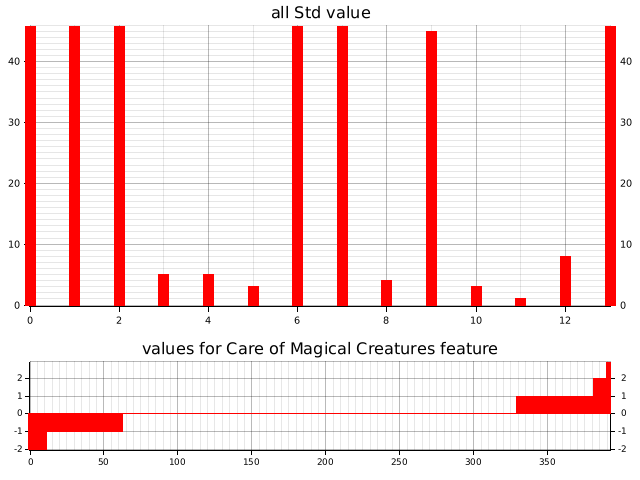
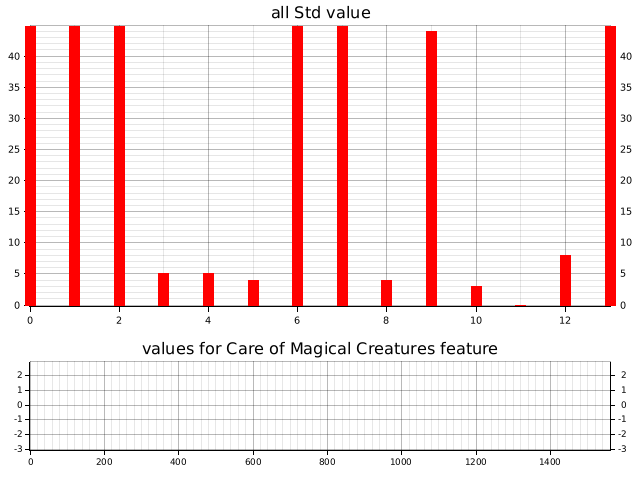
my pair_plot works a bit

diff --git a/src/feature.rs b/src/feature.rs
@@ -59,6 +59,7 @@ impl Feature {
                 });
             });
         let mut i = 0;
+        let mut void_nb = vec![0; ret.len()];
         let nb_lines = lines.clone().count();
         if nb_lines < 1 {
             return Err("no line in dataset".to_string())
@@ -68,11 +69,12 @@ impl Feature {
                 Some(line) => {
                     for (j, r) in ret.iter_mut().enumerate() {
                         let value_to_push: Vec<&str> = line.split(',').collect();
-                        if value_to_push[j].len() > 0 {
-                            r.values.push(value_to_push[j].to_string());
+                        if value_to_push[j].len() == 0 {
+                            void_nb[j] += 1;
                         }
+                        r.values.push(value_to_push[j].to_string());
                         if i == nb_lines - 2 {
-                            r.count = r.values.len();
+                            r.count = r.values.len() - void_nb[j];
                         }
                     }
                 },
@@ -96,121 +98,110 @@ impl Feature {
 
     // all calculate function
     fn calc_mean(&self) -> Option<f32> {
-        let new_values: Result<Vec<f32>, _> = self.values.iter().map(|x| x.parse()).collect();
-        match new_values {
-            Ok(all_values) => {
-                let len = all_values.len();
-                if len == 0 {
-                    return None
-                }
-                let sum: f32 = all_values.iter().sum();
-                Some(sum / (len as f32))
-            },
-            Err(_) => None
+        let new_values: Vec<f32> = self.get_values().iter().flat_map(|x| x.parse()).collect();
+        let len = new_values.len();
+        let sum: f32 = new_values.iter().sum();
+        if sum.is_nan() == true || len == 0 {
+            return None
         }
+        Some(sum / (len as f32))
     }
 
     fn calc_std(&self) -> Option<f32> {
-        let new_values: Result<Vec<f32>, _> = self.values.iter().map(|x| x.parse()).collect();
-        match new_values {
-            Ok(all_values) => {
-                let len = all_values.len();
-                if len == 0 {
-                    return None
-                }
-                let all_gap_pow_add: f32 = all_values.iter().map(|x| {
-                    let gap = match self.get_mean() {
-                        Some(mean) => x - mean,
-                        _ => unreachable!(),
-                    };
-                    gap.powf(2.0)
-                }).sum();
-                Some((all_gap_pow_add / (len as f32)).sqrt())
-            }
-            Err(_) => None
+        let new_values: Vec<f32> = self.get_values().iter().flat_map(|x| x.parse()).collect();
+        let len = new_values.len();
+        if self.get_mean() == None || len == 0 {
+            return None
         }
+        let all_gap_pow_add: f32 = new_values.iter().map(|x| {
+            let gap = match self.get_mean() {
+                Some(mean) => x - mean,
+                _ => unreachable!(),
+            };
+            gap.powf(2.0)
+        }).sum();
+        if all_gap_pow_add.is_nan() == true {
+            return None 
+        }
+        Some((all_gap_pow_add / (len as f32)).sqrt())
     }
 
     fn calc_min(&self) -> Option<f32> {
-        let new_values: Result<Vec<f32>, _> = self.values.iter().map(|x| x.parse()).collect();
-        match new_values {
-            Ok(all_values) => {
-                let mut ret = match all_values.get(0) {
-                    Some(value) => value,
-                    _ => return None
-                };
-                all_values.iter().for_each(|x| {
-                    if x < ret {
-                        ret = x;
-                    }
-                });
-                Some(*ret)
-            },
-            Err(_) => None,
+        let new_values: Vec<f32> = self.get_values().iter().flat_map(|x| x.parse()).collect();
+        let mut ret = match new_values.get(0) {
+            Some(value) => value,
+            _ => return None
+        };
+        new_values.iter().for_each(|x| {
+            if x < ret {
+                ret = x;
+            }
+        });
+        if ret.is_nan() == true {
+            return None
         }
+        Some(*ret)
     }
 
     fn calc_max(&self) -> Option<f32> {
-        let new_values: Result<Vec<f32>, _> = self.values.iter().map(|x| x.parse()).collect();
-        match new_values {
-            Ok(all_values) => {
-                let mut ret = match all_values.get(0) {
-                    Some(value) => value,
-                    _ => return None
-                };
-                all_values.iter().for_each(|x| {
-                    if x > ret {
-                        ret = x;
-                    }
-                });
-                Some(*ret)
-            },
-            Err(_) => None,
+        let new_values: Vec<f32> = self.get_values().iter().flat_map(|x| x.parse()).collect();
+        let mut ret = match new_values.get(0) {
+            Some(value) => value,
+            _ => return None
+        };
+        new_values.iter().for_each(|x| {
+            if x > ret {
+                ret = x;
+            }
+        });
+        if ret.is_nan() == true {
+            return None
         }
+        Some(*ret)
     }
 
     fn calc_percentile(&self, percentile: f32) -> Option<f32> {
-        let new_values: Result<Vec<f32>, _> = self.values.iter().map(|x| x.parse()).collect();
-        match new_values {
-            Ok(mut all_values) => {
-                all_values.sort_by(|a, b| {
-                    match a.partial_cmp(b) {
-                        Some(ord) => ord,
-                        _ => {
-                            println!("unexpected error when sort values");
-                            unreachable!();
-                        }
-                    }
-                });
-                let pos: f32 = percentile / 100.0 * (all_values.len() as f32 + 1.0);
-                match pos.fract() {
-                    x if x == 0.0 => {
-                        match all_values.get(pos as usize - 1) {
-                            Some(value) => Some(*value),
-                            _ => None
-                        }
-                    }
-                    _ => {
-                        if all_values.len() < 1 {
+        let mut new_values: Vec<f32> = self.get_values().iter().flat_map(|x| x.parse()).collect();
+        new_values.sort_by(|a, b| {
+            match a.partial_cmp(b) {
+                Some(ord) => ord,
+                _ => {
+                    println!("unexpected error when sort values");
+                    unreachable!();
+                }
+            }
+        });
+        let pos: f32 = percentile / 100.0 * (new_values.len() as f32 + 1.0);
+        match pos.fract() {
+            x if x == 0.0 => {
+                match new_values.get(pos as usize - 1) {
+                    Some(value) => {
+                        if value.is_nan() == true {
                             return None
                         }
-                        let n1 = all_values.get(pos.trunc() as usize - 1);
-                        let n2 = all_values.get(pos.trunc() as usize);
-                        match n1 {
-                            Some(nb1) => {
-                                match n2 {
-                                    Some(nb2) => {
-                                        Some((*nb1 + *nb2) / 2.0)
-                                    },
-                                    _ => None
-                                }
+                        Some(*value)
+                    },
+                    _ => None
+                }
+            }
+            _ => {
+                if new_values.len() < 1 || pos.trunc() < 1.0 {
+                    return None
+                }
+                let n1 = new_values.get(pos.trunc() as usize - 1);
+                let n2 = new_values.get(pos.trunc() as usize);
+                match n1 {
+                    Some(nb1) => {
+                        match n2 {
+                            Some(nb2) => {
+                                Some((*nb1 + *nb2) / 2.0)
                             },
                             _ => None
                         }
-                    }
+                    },
+                    _ => None
                 }
-            },
-            Err(_) => None,
+            }
         }
     }
 

diff --git a/src/pair_plot.rs b/src/pair_plot.rs
@@ -4,104 +4,63 @@ use plotters::prelude::*;
 pub fn pair_plot(features: Vec<Feature>, houses: Vec<&str>) {
     let root = BitMapBackend::new("graphics/pair_plot.png", (1366, 768)).into_drawing_area();
 
-    let nb_feature = features.len() / 2;
+    let nb_feature = features.len();
     let areas = root.split_evenly((nb_feature, nb_feature));
 
     for (id, area) in areas.into_iter().enumerate() {
         let feature_x = id % nb_feature;
         let feature_y = id / nb_feature;
         area.fill(&WHITE).unwrap();
-        let mut ctx = ChartBuilder::on(&area)
-        .set_label_area_size(LabelAreaPosition::Left, 10.0)
-        .set_label_area_size(LabelAreaPosition::Bottom, 10.0)
-        .build_cartesian_2d((features[feature_x].get_min().unwrap() as f32)..(features[feature_x].get_max().unwrap() as f32), (features[feature_y].get_min().unwrap() as f32)..(features[feature_y].get_max().unwrap() as f32))
-        .unwrap();
-        ctx.configure_mesh().draw().unwrap();
 
-        if feature_y == 0 {
-            let title = features[feature_x].get_name();
+        if feature_x != feature_y {
             let mut ctx = ChartBuilder::on(&area)
-            .set_label_area_size(LabelAreaPosition::Left, 0)
-            .set_label_area_size(LabelAreaPosition::Bottom, 0)
-            .caption(title, ("sans-serif", 10))
             .build_cartesian_2d((features[feature_x].get_min().unwrap() as f32)..(features[feature_x].get_max().unwrap() as f32), (features[feature_y].get_min().unwrap() as f32)..(features[feature_y].get_max().unwrap() as f32))
             .unwrap();
             ctx.configure_mesh().draw().unwrap();
-        } else if feature_x == 0 {
-            let title = features[feature_y].get_name();
-            let mut ctx = ChartBuilder::on(&area)
-            .set_label_area_size(LabelAreaPosition::Left, 0)
-            .set_label_area_size(LabelAreaPosition::Bottom, 0)
-            .caption(title, ("sans-serif", 10))
-            .build_cartesian_2d((features[feature_x].get_min().unwrap() as f32)..(features[feature_x].get_max().unwrap() as f32), (features[feature_y].get_min().unwrap() as f32)..(features[feature_y].get_max().unwrap() as f32))
-            .unwrap();
-            ctx.configure_mesh().draw().unwrap();
-        }
-        else if feature_x != feature_y {
-            let data1: Result<Vec<f32>, _> = features[feature_x].get_values().iter().map(|x| x.parse()).collect();
-            let data2: Result<Vec<f32>, _> = features[feature_y].get_values().iter().map(|x| x.parse()).collect();
-            match data1 {
-                Ok(data1_val) => {
-                    match data2 {
-                        Ok(data2_val) => {
-                            let mut true_data = Vec::new();
-                            let mut i = 0;
-                            while data1_val.get(i) != None {
-                                match data1_val.get(i) {
-                                    Some(x) => {
-                                        match data2_val.get(i) {
-                                            Some(y) => {
-                                                if i < houses.len() {
-                                                    match houses[i] {
-                                                       "Gryffindor" => true_data.push((*x as f32, *y as f32, &RED)),
-                                                        "Hufflepuff" => true_data.push((*x as f32, *y as f32, &YELLOW)),
-                                                        "Slytherin" => true_data.push((*x as f32, *y as f32, &GREEN)),
-                                                        _  => true_data.push((*x as f32, *y as f32, &BLUE)),
-                                                    }
-                                                } else {
-                                                    true_data.push((*x as f32, *y as f32, &BLUE));
-                                                }
-                                            },
-                                            _ => ()
+            let data1: Vec<f32> = features[feature_x].get_values().iter().map(|x| x.parse().unwrap_or(f32::NAN)).collect();
+            let data2: Vec<f32> = features[feature_y].get_values().iter().map(|x| x.parse().unwrap_or(f32::NAN)).collect();
+            let mut true_data = Vec::new();
+            let mut i = 0;
+            while i < data1.len() && i < data2.len() {
+                match data1.get(i) {
+                    Some(x) => {
+                        match data2.get(i) {
+                            Some(y) => {
+                                if x.is_nan() == false && y.is_nan() == false {
+                                    if i < houses.len() {
+                                        match houses[i] {
+                                           "Gryffindor" => true_data.push((*x, *y, &RED)),
+                                            "Hufflepuff" => true_data.push((*x, *y, &YELLOW)),
+                                            "Slytherin" => true_data.push((*x, *y, &GREEN)),
+                                            _  => true_data.push((*x, *y, &BLUE)),
                                         }
-                                    },
-                                    _ => ()
+                                    } else {
+                                        true_data.push((*x, *y, &BLUE));
+                                    }
                                 }
-                                i += 1;
-                            }
-                            if features[feature_x].get_name() == "Defense Against the Dark Arts" && features[feature_y].get_name() == "Arithmancy" {
-                                true_data.iter().for_each(|point| {
-                                    println!("x = {} | y = {}", point.0, point.1);
-                                });
-                            }
-                            ctx.draw_series(
-                                true_data.iter().map(|point| Circle::new((point.0, point.1), 1.0, point.2))
-                            ).unwrap();
-                        },
-                        _ => ()
-                    }
-                },
-                _ => ()
-            };
+                            },
+                            _ => ()
+                        }
+                    },
+                    _ => ()
+                }
+                i += 1;
+            }
+            ctx.draw_series(
+                true_data.iter().map(|point| Circle::new((point.0, point.1), 2.0, point.2))
+            ).unwrap();
         } else {
             let mut ctx = ChartBuilder::on(&area)
-            .set_label_area_size(LabelAreaPosition::Left, 0)
-            .set_label_area_size(LabelAreaPosition::Bottom, 0)
             .build_cartesian_2d(0..(features[feature_x].get_count() as i32), (features[feature_x].get_min().unwrap() as i32)..(features[feature_x].get_max().unwrap() as i32))
             .unwrap();
             ctx.configure_mesh().draw().unwrap();
-            let new_values: Result<Vec<f32>, _> = features[feature_x].get_values().iter().map(|x| x.parse()).collect();
-            match new_values {
-                Ok(data) => {
-                    ctx.draw_series((0..).zip(data.iter()).map(|(x, y)| {
-                        let mut bar = Rectangle::new([(x, 0), (x, *y as i32)], BLACK.filled());
-                        bar.set_margin(0, 0, 1, 1);
-                        bar
-                    }))
-                    .unwrap();
-                },
-                _ => ()
-            }
+            let data: Vec<f32> = features[feature_x].get_values().iter().map(|x| x.parse().unwrap_or(f32::NAN)).collect();
+            ctx.draw_series((0..).zip(data.iter()).map(|(x, y)| {
+                let mut bar = Rectangle::new([(x, 0), (x, *y as i32)], BLACK.filled());
+                bar.set_margin(0, 0, 1, 1);
+                bar
+            }))
+            .unwrap();
         }
     }
 }

diff --git a/src/main.rs b/src/main.rs
@@ -40,7 +40,9 @@ fn main() {
         }
         match x.get_std() {
             Some(_) => {
-                 pair_plot_features.push(x.clone());
+                if x.get_name() != "Index" {
+                    pair_plot_features.push(x.clone());
+                }
             },
             _ => ()
         }
